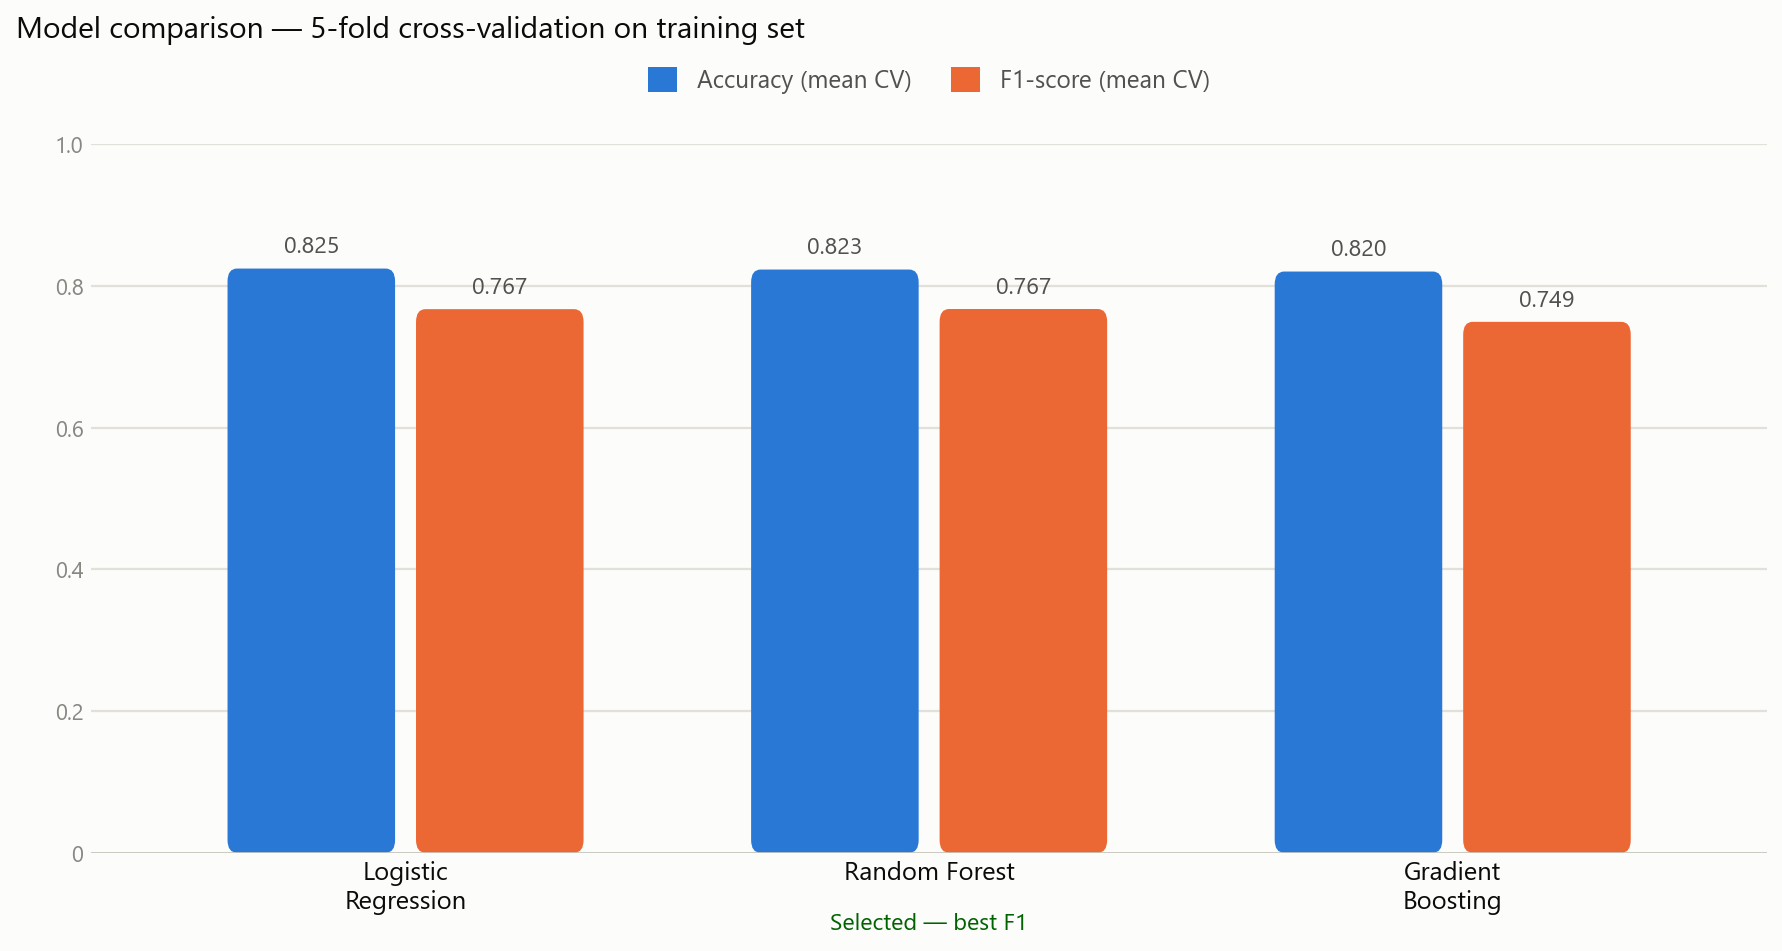
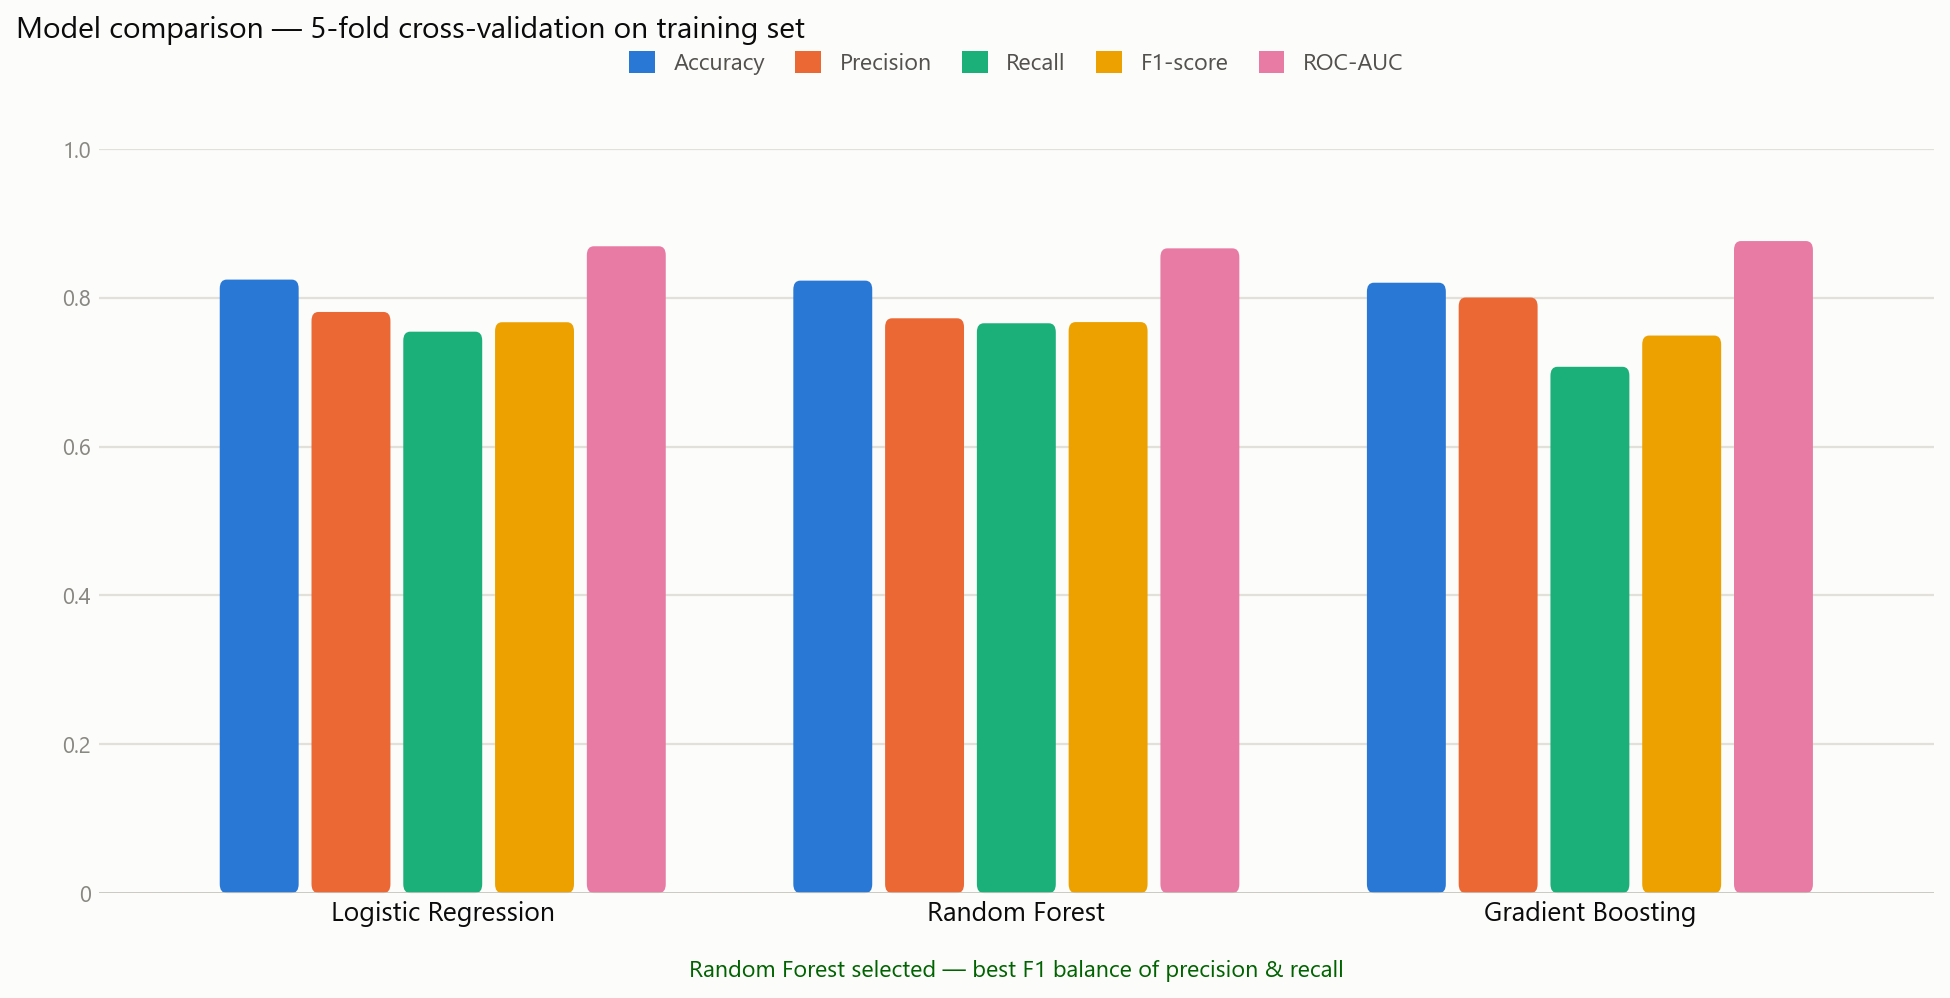
expand comparison metrics

diff --git a/README.md b/README.md
@@ -68,13 +68,13 @@ Saved the result as `data/train_transformed.csv`. Summary of what changed vs. th
 
 ![Model comparison](images/model_comparison.png)
 
-| Model | Mean CV Accuracy | Mean CV F1-score |
-|---|---|---|
-| Logistic Regression | 0.825 | 0.767 |
-| Random Forest | 0.823 | 0.767 |
-| Gradient Boosting | 0.820 | 0.749 |
+| Model | Accuracy | Precision | Recall | F1-score | ROC-AUC |
+|---|---|---|---|---|---|
+| Logistic Regression | 0.825 | 0.781 | 0.754 | 0.767 | 0.869 |
+| Random Forest | 0.823 | 0.772 | 0.766 | 0.767 | 0.867 |
+| Gradient Boosting | 0.820 | 0.800 | 0.707 | 0.749 | 0.876 |
 
-Accuracy was nearly identical across all three, but Random Forest and Logistic Regression edged out Gradient Boosting on F1 — and Random Forest won that tiebreak, which is why it was selected.
+*(All values are 5-fold CV means on the training set.)* Accuracy was nearly identical across all three. Gradient Boosting had the best precision and ROC-AUC, but its recall was noticeably weaker — it misses more real survivors. Random Forest and Logistic Regression tied on F1, and Random Forest won that tiebreak, which is why it was selected.
 
 **Tuning:**
 - Used `RandomizedSearchCV` to automatically find better settings, instead of guessing fixed numbers
